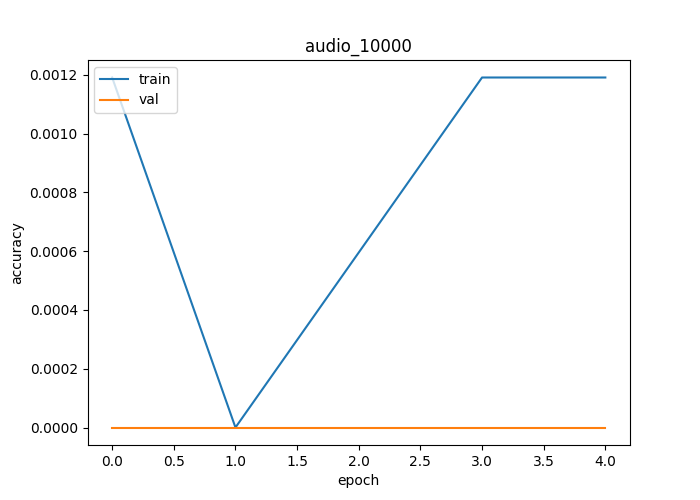
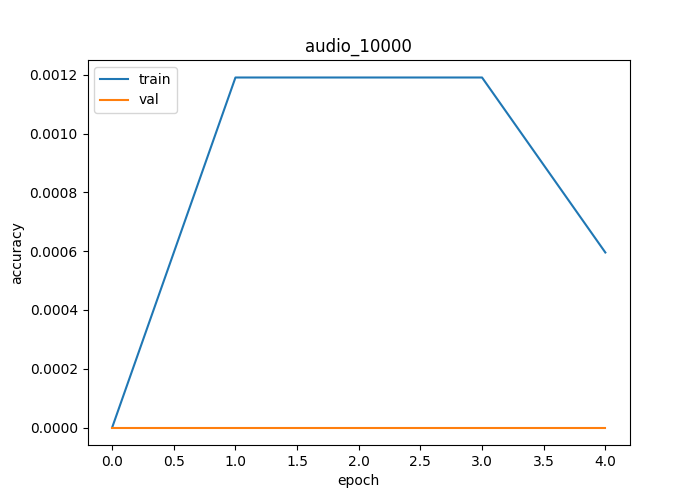
Model outputs all numbers simultaneously

diff --git a/autoencoder.py b/autoencoder.py
@@ -131,7 +131,7 @@ def get_model(input_size, latent_units=50):
     #model.add(layers.BatchNormalization(-1))
     model.add(layers.Dense(1100, activation="tanh"))
     model.add(layers.Dense(latent_units, activation="tanh"))
-    model.add(layers.Dense(1100, activation="tanh"))
+    model.add(layers.Dense(1100, activation="relu"))
     model.add(layers.Dense(input_size, activation="linear"))
     model.compile(optimizer="adam", metrics=["accuracy"], loss="MSE")
     return model
@@ -187,7 +187,7 @@ if __name__ == "__main__":
     audio = get_audio(filepaths, num_vectors=3000, sr=sr)
 
     #model, X_train, X_test = method_convolution(sr, audio)
-    model, X_train, X_test = method_dense(audio, sr, latent=400)
+    model, X_train, X_test = method_dense(audio, sr, latent=500)
     pred = model.predict(X_test)
     sf.write("orig.wav", audio[0], sr)
     sf.write("pred.wav", pred[0] * 30, sr) # Amplitude scaling necessary
